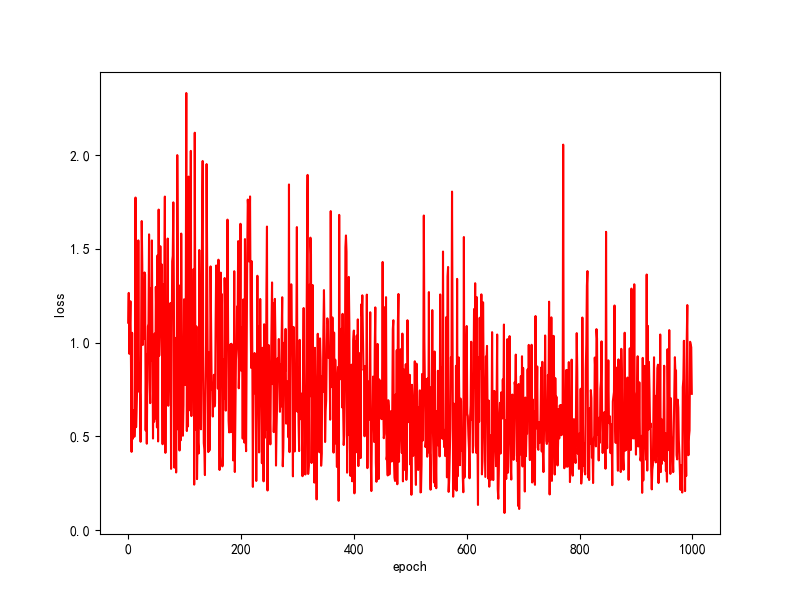
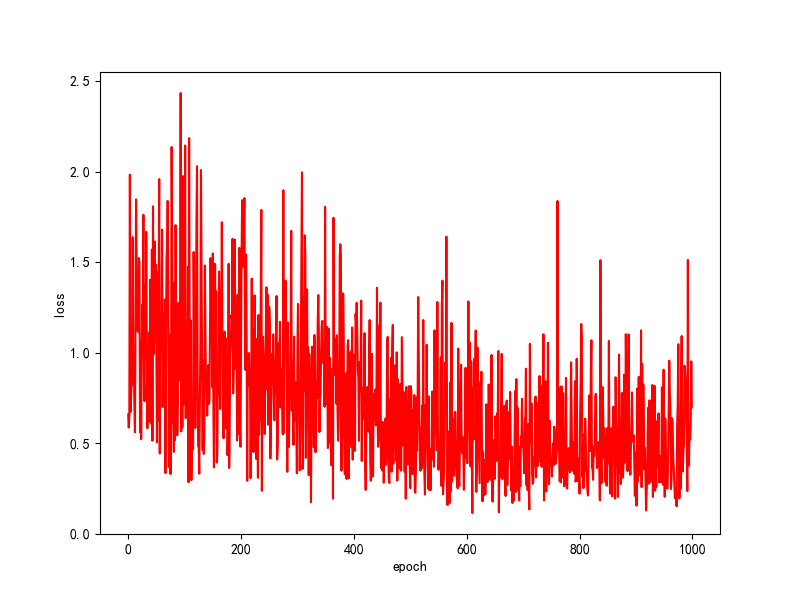
11.29 16:34

diff --git a/code/csdn_training.py b/code/csdn_training.py
@@ -6,11 +6,11 @@ import numpy as np
 from sklearn.preprocessing import MinMaxScaler  # 导入归一化模块
 import time
 
-feature_number = 1  # 设置特征数目
+feature_number = 3  # 设置特征数目
 out_prediction = 1  # 设置输出数目
-learning_rate = 0.00001  # 设置学习率
-epochs = 1000  # 设置训练代数
-
+learning_rate = 0.00001  # 设置学习率0.00001
+epochs = 1000  # 设置训练次数
+Myseed = 2022  # 设置随机种子分关键，不然每次划分的数据集都不一样，不利于结果复现
 
 plt.rcParams['font.sans-serif']=['SimHei'] #用来正常显示中文标签
 plt.rcParams['axes.unicode_minus']=False #用来正常显示负号
@@ -20,7 +20,7 @@ plt.rcParams['axes.unicode_minus']=False #用来正常显示负号
 
 csv_path = 'housing.csv'
 housing = pd.read_csv(csv_path)
-x_pd, y_pd = housing.iloc[:, 7:8], housing.iloc[:, -2:-1]
+x_pd, y_pd = housing.iloc[:, 5:8], housing.iloc[:, -2:-1]
 
 '''对每列（特征）归一化'''
 
@@ -51,7 +51,7 @@ Y = torch.tensor(Y, dtype=torch.float32)
 torch_dataset = torch.utils.data.TensorDataset(X, Y)  # 组成torch专门的数据库
 
 # 划分训练集测试集与验证集
-torch.manual_seed(seed=2022)  # 设置随机种子分关键，不然每次划分的数据集都不一样，不利于结果复现
+torch.manual_seed(seed=Myseed)  # 设置随机种子分关键，不然每次划分的数据集都不一样，不利于结果复现
 train_validaion, test = torch.utils.data.random_split(
     torch_dataset,
     [14448, 6192])  # 先将数据集拆分为训练集+验证集（共450组），测试集（56组） # hyd 总长度一定要与数据集中数字数据长度一致 14448+6192 = 20640

diff --git a/code/multiple_regression_sk.py b/code/multiple_regression_sk.py
@@ -1,0 +1,57 @@
+import numpy as np
+import matplotlib.pyplot as plt
+from sklearn.linear_model import LinearRegression
+from sklearn.preprocessing import PolynomialFeatures
+
+
+# 二次回归
+plt.rcParams['font.sans-serif'] = ['SimHei']  # 用来正常显示中文标签
+plt.rcParams['axes.unicode_minus'] = False  # 用来正常显示负号
+
+# x从-3 - 3均匀取值
+# x = np.random.uniform(-3, 3 ,size=100)
+# X = x.reshape(-1, 1)  #reshape(-1,1)转换成1列
+# y是二次方程
+x = np.linspace(-3, 3, 100)
+X = x.reshape(-1, 1)
+y = 0.3 * x ** 2 + 2 * x + 1 + np.random.normal(0, 1, size=100)  # 正态分布的均值，正态分布的标准差
+print('x= ', x)
+
+fig, ax = plt.subplots(figsize=(8, 6))
+ax.scatter(x, y)
+ax.set_title('原始数据', fontsize=18)
+plt.show()
+
+
+# 实例化线性模型
+lr = LinearRegression()
+lr.fit(X, y)
+y_predict1 = lr.predict(X)
+
+fig, ax = plt.subplots(figsize=(8, 6))
+ax.scatter(x, y)
+ax.set_title('线性回归', fontsize=18)
+ax.plot(x, y_predict1,'r')
+plt.show()
+
+
+
+poly = PolynomialFeatures(degree=2)
+# degree=2 生成2次特征，可以调整
+
+poly.fit(X)
+X2 = poly.transform(X)
+
+print('X2 shape ', X2.shape)
+print(X2[0:5, :])
+
+# 继续使用线性模型
+lr.fit(X2, y)
+y_predict2 = lr.predict(X2)
+
+fig, ax = plt.subplots(figsize=(8, 6))
+ax.scatter(x, y)
+ax.set_title('多项式回归', fontsize=18)
+ax.plot(x, y_predict2, 'r')
+plt.show()
+
